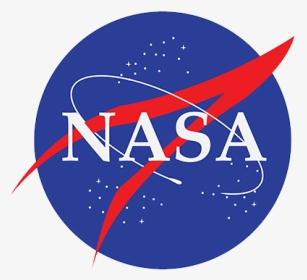
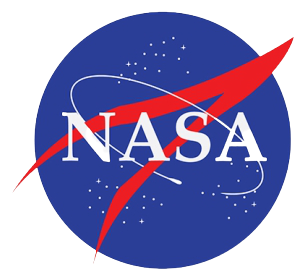
ajustes css responsivo

diff --git a/css/index.css b/css/index.css
@@ -2,15 +2,33 @@ body {
     box-sizing: border-box;    
 }
 
-/* ===================== Hedaer =======================*/
-
-.header-container {
+.header {
     display: flex;
-    justify-content: space-between; 
-    align-items: center;  
-    height: 90px;
-    padding: 0 20px;
-    background-color: rgb(84, 146, 146);    
+    justify-content: space-between;
+    align-items: center;
+    height: 80px;
+    background-color: teal;
+}
+
+.logo {
+    width: 70px;
+    height: 60px;
+    margin-right: 10px;
+}
+
+.header-container{  
+    display: flex;
+    justify-content: space-between;
+    align-items: center;
+    max-width: 900px;
+    margin: 0 auto
+}
+
+.header-logo{
+    display: flex;
+    justify-content: space-between;
+    align-items: center;
+    
 }
 
 .btn {
@@ -36,33 +54,27 @@ body {
 
 }
 
-.logo {
-    width: 60px;
-    height: 50px;
-    margin-right: 20px;
-}
+/*================================================== Main====================*/
 
-/* ===================== Main =======================*/
-.body-conatiner {    
-    
-    margin: 20px auto;
+.body-conatiner {
+    max-width: 900px;
     display: grid;
-    grid-template-columns: repeat(2, 1fr);
+    grid-template-columns: repeat(2, 1fr);    
     
-    
-    width: 900px;
-    max-height: 540px;
-    border-radius: 0.25rem;
-    
+    margin: 10px auto;
 }
 
-.imgNasa {
-    align-items: center;
-    border-radius: 0.25rem;
-    width: 100%;
+.imgNasa {   
+    border-radius: 0.25rem;    
     max-height: 540px;
 }
 
+.info {
+    margin: 10px;
+    display: flex;
+    flex-direction: column;
+    flex-wrap: wrap;
+}
 .body-texto {
     font-size: 0.8rem;
     margin: 10px;
@@ -77,13 +89,6 @@ body {
 .titulo-body{
     font-size: 1rem;
 }
-
-#nasa{
-    margin: 20px auto;
-    max-width: 550px;
-    max-height: 500px;
-}
-
 #bem-vindo {
     margin: 150px 30px;
     font-size: 3rem;
@@ -91,14 +96,31 @@ body {
 }
 
 @media (max-width: 700px)
+
+
 {
-    .body-conatiner {    
+
+    .header {
         
-        margin: 20px auto;
-        max-width: 450px;
-        max-height: 500px;
-        display: grid;
+        height: 90px;
+        
+    }
+    .body-conatiner {     
+       
         grid-template-columns: repeat(1, 1fr);
+        justify-items:center;
+       
+    }
+
+    .imgNasa {  
+        
+        max-width: 350px;        
+        padding: 0 20px;
+    }
+
+    .info {  
+        max-width: 350px; 
+        padding:0 20px
     }
     .titulo-header{
         font-size: 0.9rem;
@@ -109,9 +131,11 @@ body {
        margin-top: 10px;
        margin-bottom: 5px;
     }
-    #bem-vindo {
-        margin: 50px auto;
-        font-size: 3rem;
-        font-weight: 600;
+    .body-texto {
+        margin: 0px;
     }
+    .info{
+        padding: 0;
+    }
+        
 }

diff --git a/index.html b/index.html
@@ -13,19 +13,22 @@
 </head>
 
 <body>
-    <header class="header-container">
-        <div class='header-container'>
-            <div>
-                <img class='logo' src="./img/nasa1.png" alt="" srcset="" style="">
+    <header class="header">
+        <div class="header-container">
+            <div class='header-logo'>
+                <div>
+                    <img class='logo' src="./img/nasa1.png" alt="">
+                </div>
+                <div>
+                    <h1 class='titulo-header'>Pesquise uma imagem pela data</h1>
+                </div>
             </div>
-            <div>
-                <h1 class='titulo-header'>Pesquise uma imagem pela data</h1>
-            </div>
-        </div>
+        
         <form action="">
             <input class="input" id='inputData' type="date">
             <button class="btn" id='btnData'>Enviar</button>
         </form>
+    </div>
     </header>
     <main id='body' class="body-conatiner">
         <img id="nasa" src="./img/nasa.png" alt="imagem da nasa" />

diff --git a/js/index.js b/js/index.js
@@ -53,7 +53,7 @@ const retornaFotoApi = {
         <section>
             <img class='imgNasa' id='imgData' src="" alt="">
         </section>
-        <section style="display: flex; flex-direction: column; flex-wrap: wrap;">
+        <section class='info' style="display: flex; flex-direction: column; flex-wrap: wrap;">
             <div class="body-texto titulo-body">
                 <p > Titulo: <span >${data.title}</span></p>
             </div>
